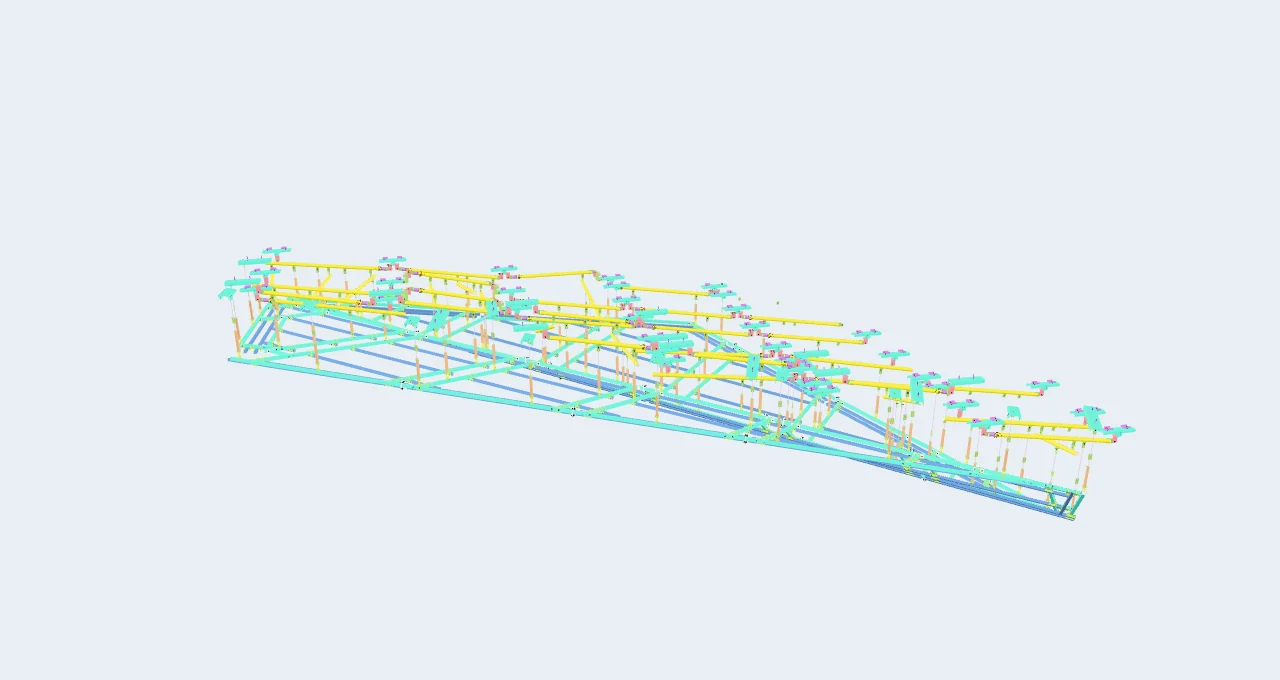
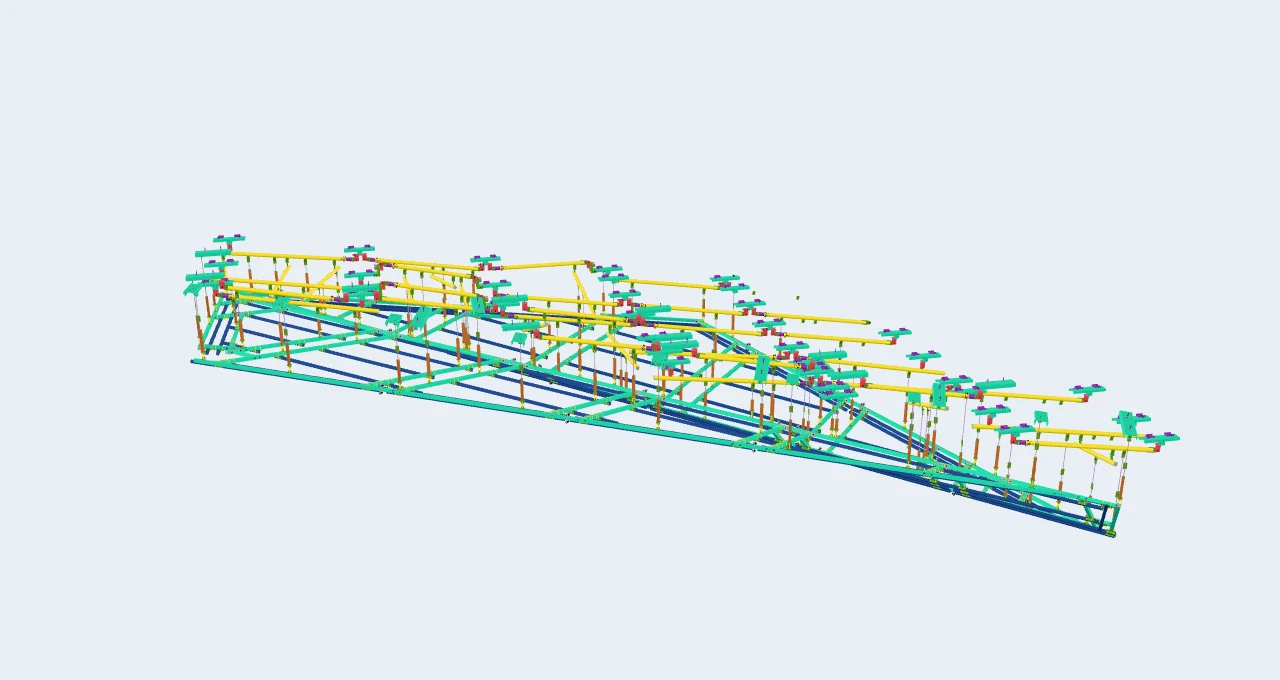
Improve suspended frame colors and close-up controls

Changed region(s): [[0.125, 0.3397, 0.9375, 0.8029]]

diff --git a/ru/index.html b/ru/index.html
@@ -496,17 +496,17 @@
     </figure>
   </div>
   <div class="wrap soffit-demo">
-    <h3 id="soffit-title">Подсистема софита — зона 11</h3>
+    <h3 id="soffit-title">Подвесная подсистема</h3>
     <p>Все соединения в этой модели созданы плагинами Tekla. Для подсистемы я разработал шесть типов соединений.</p>
-    <div class="soffit-viewer" data-model-src="../assets/img/soffit-11.glb" data-alt="Стальная подсистема софита: жёлтая цепочка труб, поперечные балки, кронштейны и подвесы"
+    <div class="soffit-viewer" data-model-src="../assets/img/soffit-11.glb?v=2" data-alt="Стальная подсистема софита: жёлтая цепочка труб, поперечные балки, кронштейны и подвесы"
       data-loading="Загружаю 3D-модель…" data-error="Не удалось загрузить 3D-модель. Можно повторить попытку.">
       <div class="soffit-viewport">
-        <img class="soffit-poster" src="../assets/img/soffit-11.webp" alt="Стальная подсистема софита: жёлтая цепочка труб, поперечные балки, кронштейны и подвесы" width="1280" height="680" loading="lazy">
+        <img class="soffit-poster" src="../assets/img/soffit-11.webp?v=2" alt="Стальная подсистема софита: жёлтая цепочка труб, поперечные балки, кронштейны и подвесы" width="1280" height="680" loading="lazy">
       </div>
       <div class="soffit-controls">
         <button class="btn" type="button" hidden>Открыть 3D-модель</button>
         <p class="soffit-status" role="status"></p>
-        <p class="soffit-hint" hidden>Перетащите модель, чтобы повернуть её. Для приближения используйте колёсико мыши или жест двумя пальцами.</p>
+        <p class="soffit-hint" hidden>Перетаскивайте модель для вращения. Нажмите на деталь, чтобы поставить её в центр, и приблизьте колёсиком или жестом двумя пальцами.</p>
       </div>
     </div>
     <h4>Шесть типов соединений</h4>
@@ -613,6 +613,6 @@
 </div>
 
 <script src="../assets/js/main.js"></script>
-<script type="module" src="../assets/js/soffit-viewer.js"></script>
+<script type="module" src="../assets/js/soffit-viewer.js?v=2"></script>
 </body>
 </html>

diff --git a/index.html b/index.html
@@ -489,17 +489,17 @@
     </figure>
   </div>
   <div class="wrap soffit-demo">
-    <h3 id="soffit-title">Soffit support frame — Zone 11</h3>
+    <h3 id="soffit-title">Suspended support frame</h3>
     <p>Every connection in this model was created by a Tekla plugin. I developed six connection types for this support frame.</p>
-    <div class="soffit-viewer" data-model-src="assets/img/soffit-11.glb" data-alt="Steel soffit support frame with yellow linked tubes, cross-members, brackets and hangers"
+    <div class="soffit-viewer" data-model-src="assets/img/soffit-11.glb?v=2" data-alt="Steel soffit support frame with yellow linked tubes, cross-members, brackets and hangers"
       data-loading="Loading 3D model…" data-error="The 3D model could not be loaded. You can try again.">
       <div class="soffit-viewport">
-        <img class="soffit-poster" src="assets/img/soffit-11.webp" alt="Steel soffit support frame with yellow linked tubes, cross-members, brackets and hangers" width="1280" height="680" loading="lazy">
+        <img class="soffit-poster" src="assets/img/soffit-11.webp?v=2" alt="Steel soffit support frame with yellow linked tubes, cross-members, brackets and hangers" width="1280" height="680" loading="lazy">
       </div>
       <div class="soffit-controls">
         <button class="btn" type="button" hidden>Open 3D model</button>
         <p class="soffit-status" role="status"></p>
-        <p class="soffit-hint" hidden>Drag to rotate the model. Scroll or pinch to zoom.</p>
+        <p class="soffit-hint" hidden>Drag to rotate. Click a detail to center it, then scroll or pinch to zoom.</p>
       </div>
     </div>
     <h4>Six connection types</h4>
@@ -605,6 +605,6 @@
 </div>
 
 <script src="assets/js/main.js"></script>
-<script type="module" src="assets/js/soffit-viewer.js"></script>
+<script type="module" src="assets/js/soffit-viewer.js?v=2"></script>
 </body>
 </html>

diff --git a/assets/js/soffit-viewer.js b/assets/js/soffit-viewer.js
@@ -1,4 +1,4 @@
-const viewer = document.querySelector('.soffit-viewer');
+const viewer = document.querySelector('.soffit-viewer');
 const button = viewer.querySelector('button');
 const viewport = viewer.querySelector('.soffit-viewport');
 const status = viewer.querySelector('.soffit-status');
@@ -17,7 +17,11 @@ button.addEventListener('click', async () => {
     model = document.createElement('model-viewer');
     model.alt = viewer.dataset.alt;
     model.setAttribute('camera-controls', '');
-    model.setAttribute('camera-orbit', '35deg 63deg ' + (viewport.clientWidth < 620 ? '100%' : '70%'));
+    model.setAttribute('camera-orbit', '35deg 63deg ' + (viewport.clientWidth < 620 ? '100%' : '83%'));
+    model.setAttribute('min-camera-orbit', 'auto auto 8%');
+    model.setAttribute('min-field-of-view', '6deg');
+    model.setAttribute('tone-mapping', 'neutral');
+    model.setAttribute('exposure', '0.78');
     model.setAttribute('touch-action', 'pan-y');
     model.setAttribute('interaction-prompt', 'none');
 
